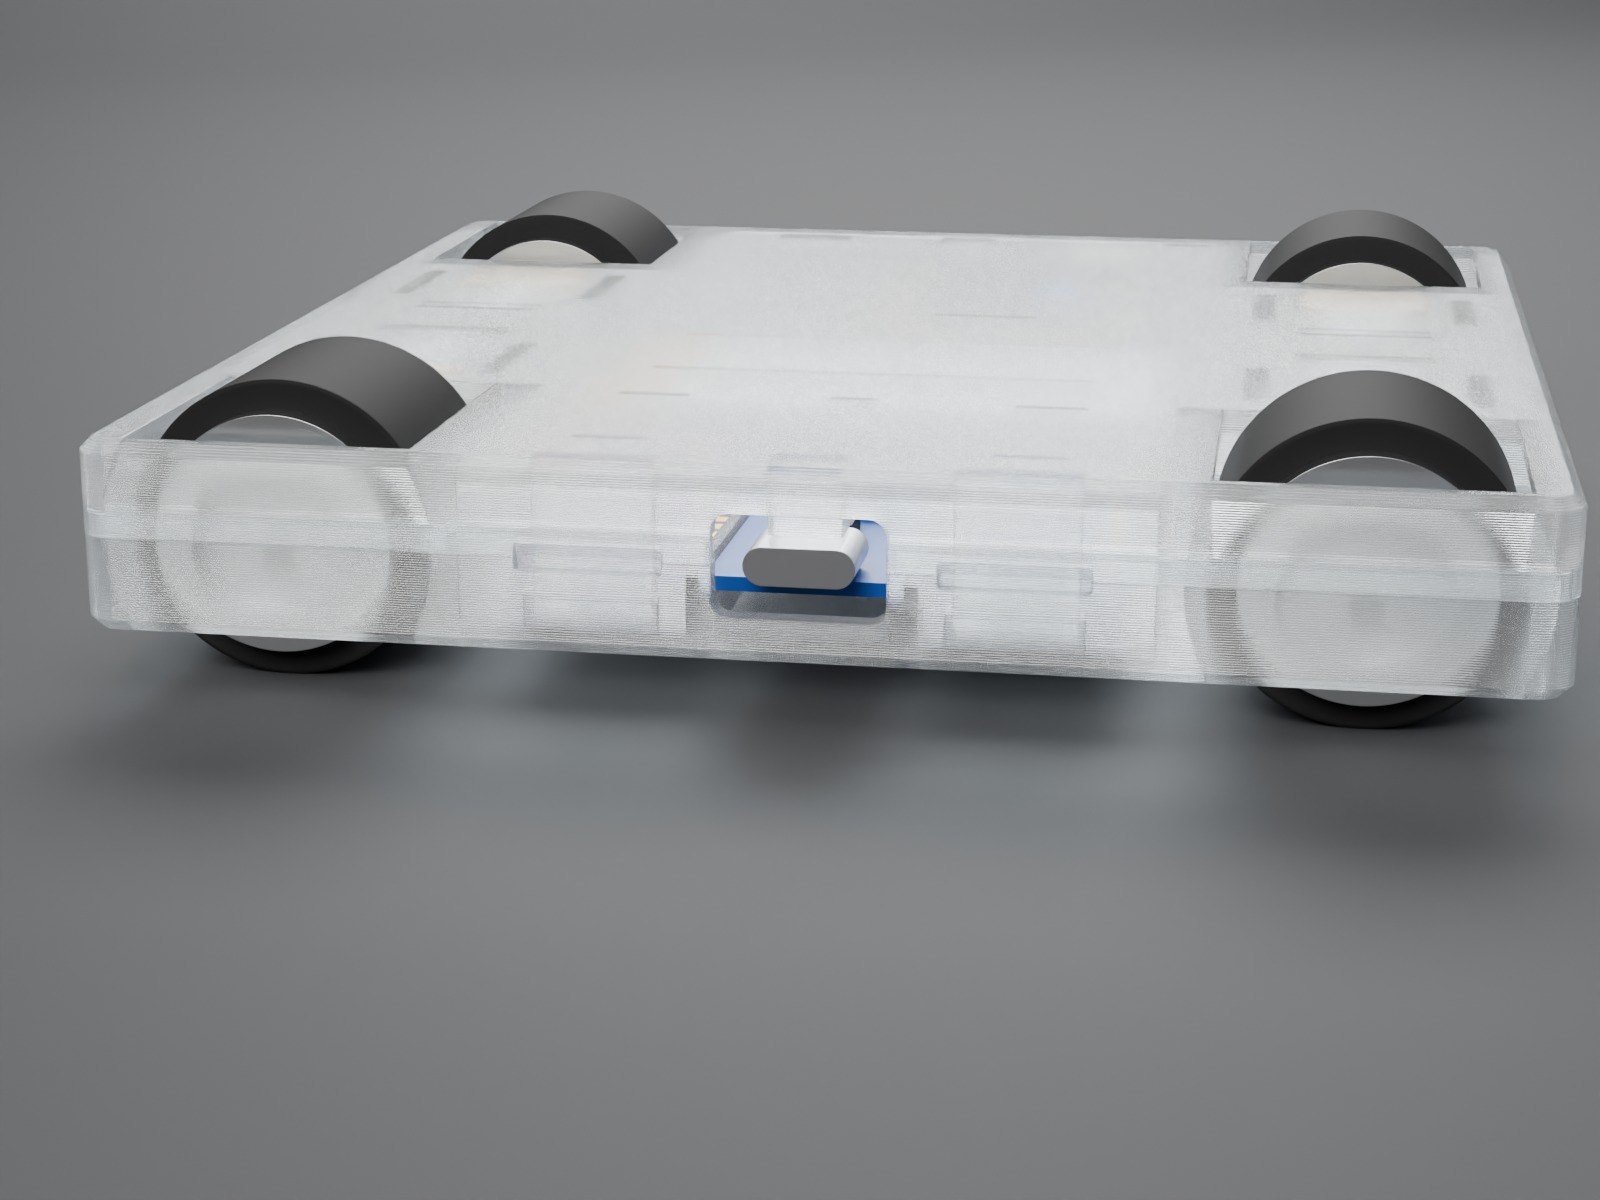
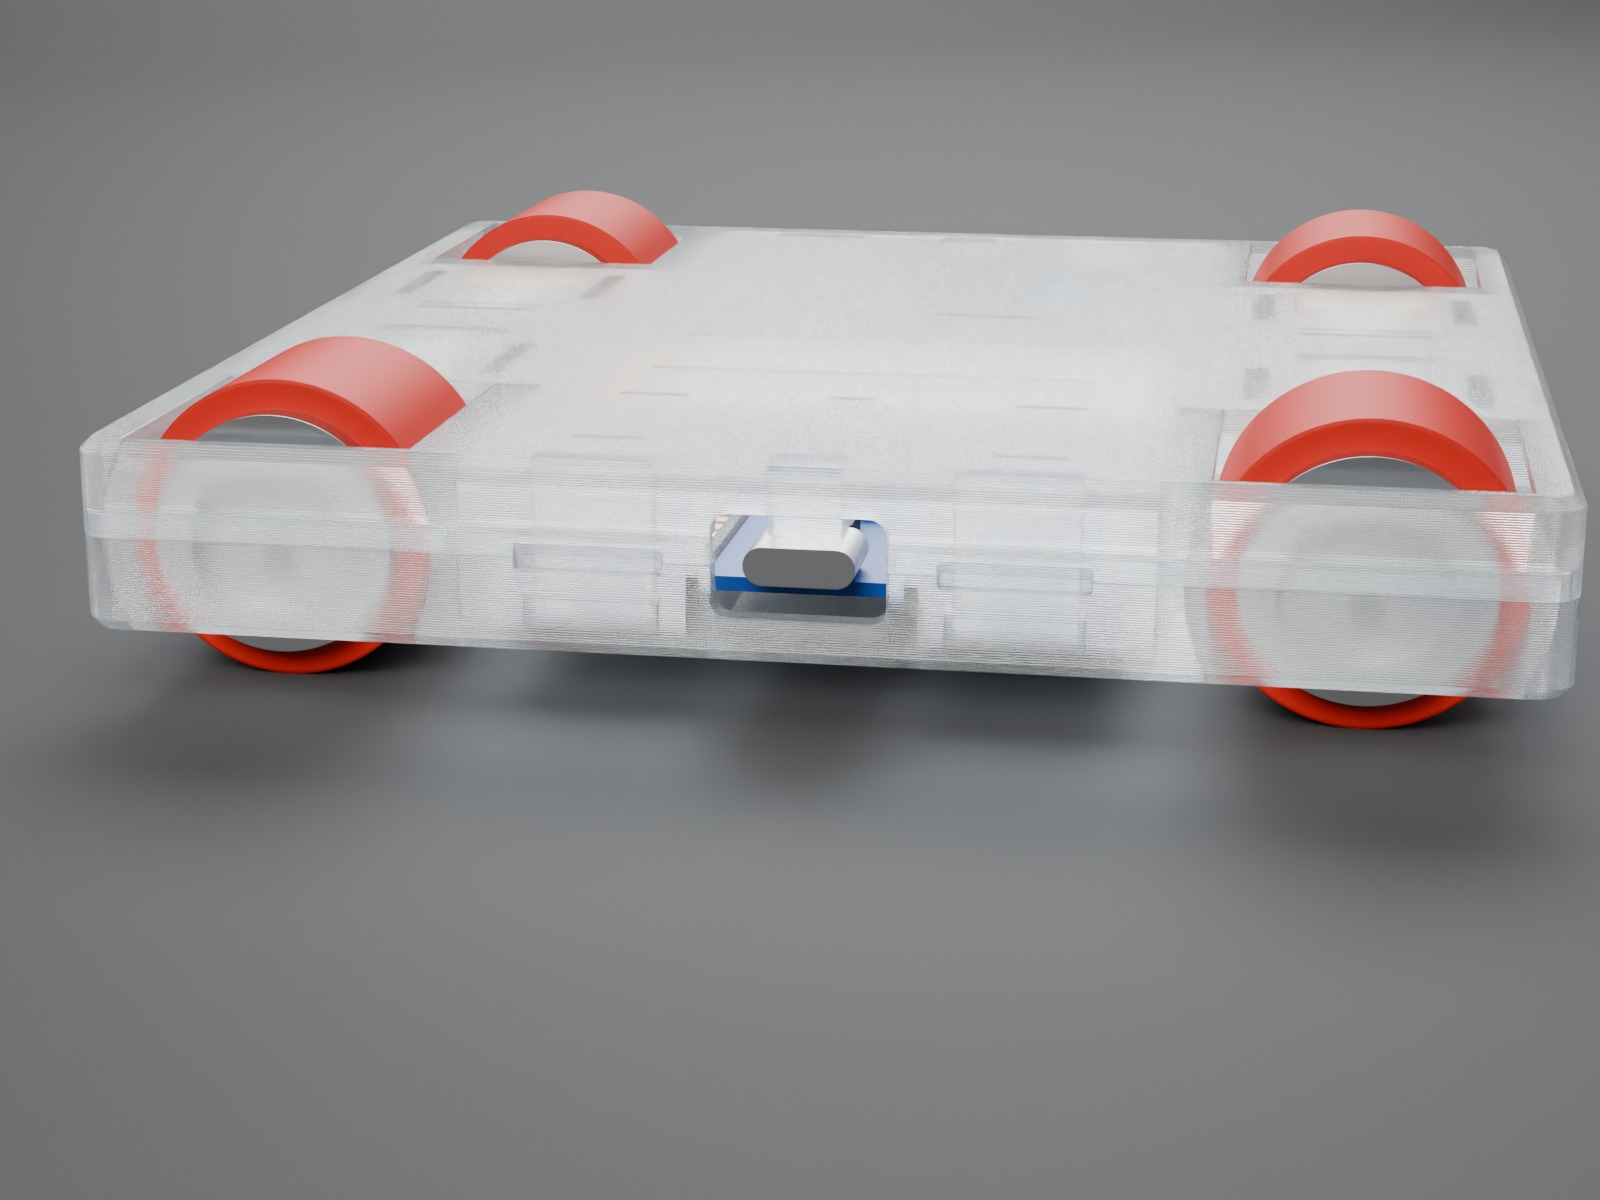
feat(cad): re-render the product shots without the switch, with red tyres

diff --git a/cad/product/render.py b/cad/product/render.py
@@ -172,7 +172,7 @@ def materials():
     mat.update(
         base=translucent("base", CLEAR),
         lid=translucent("lid", CLEAR),
-        tyres=plastic("tyres", (0.012, 0.012, 0.013), 0.75, bevel=0.0006),
+        tyres=plastic("tyres", (0.62, 0.035, 0.02), 0.6, bevel=0.0006),
         steel=plastic("steel", (0.60, 0.61, 0.63), 0.28, bevel=0.0001, metallic=1.0),
         brass=plastic("brass", (0.80, 0.58, 0.22), 0.3, bevel=0, metallic=1.0),
         pcb_dark=plastic("pcb_dark", (0.010, 0.022, 0.035), 0.4, bevel=0),
